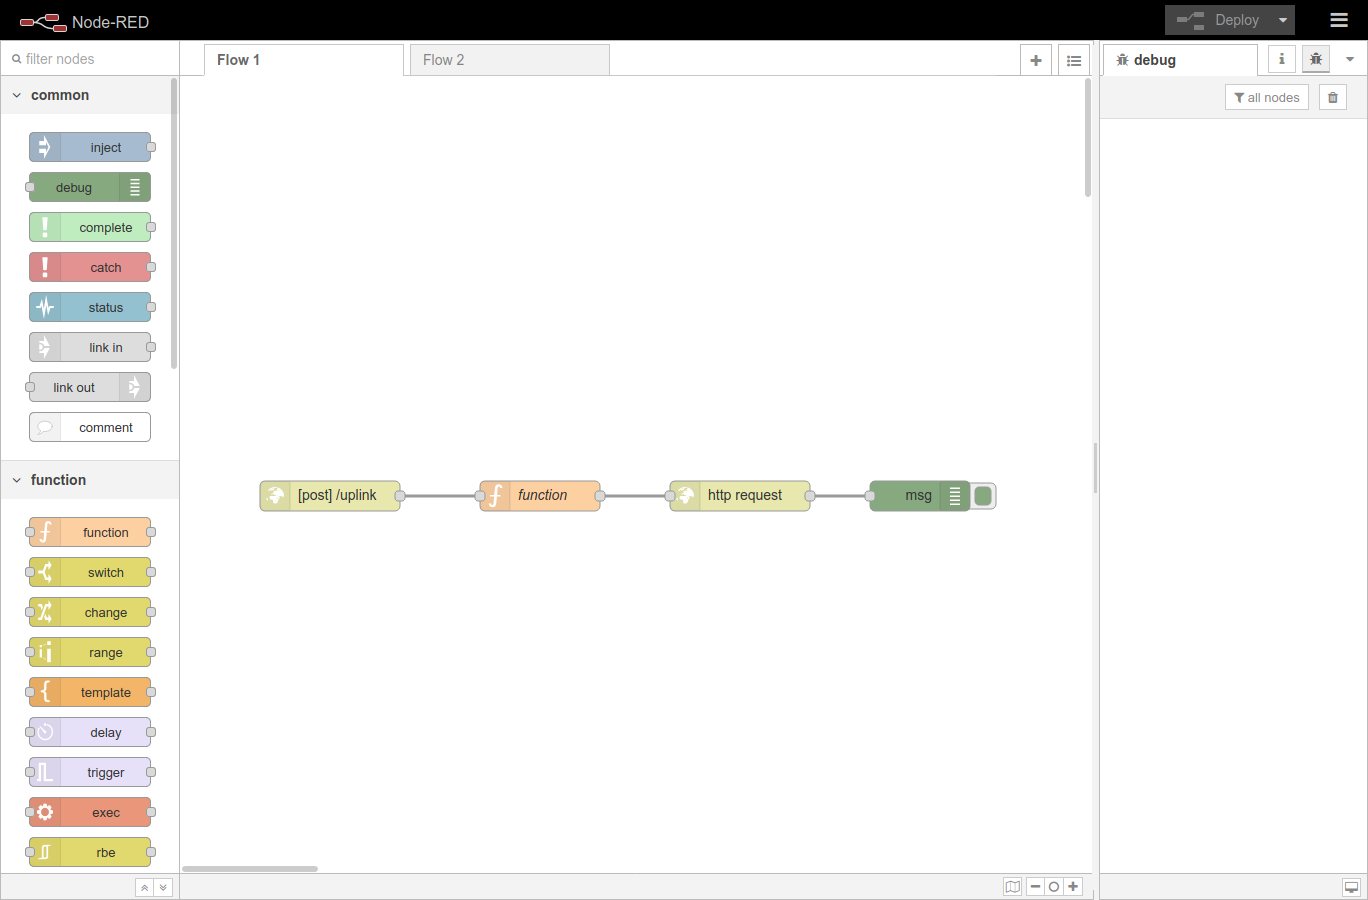
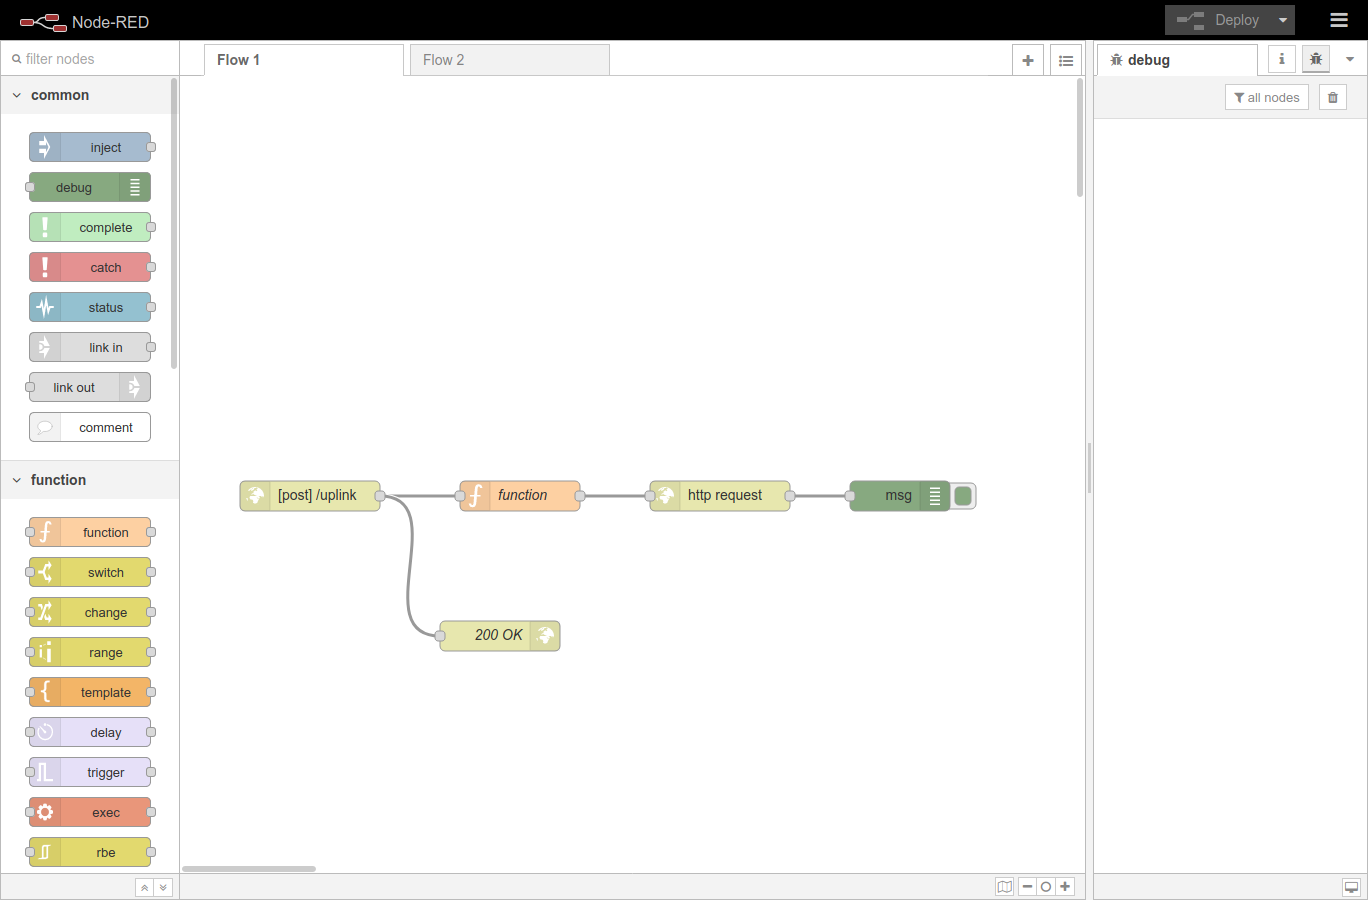
doc: Add the HTTP reponse node to the setup

diff --git a/doc/content/integrations/ifttt/node-red-setup/_index.md b/doc/content/integrations/ifttt/node-red-setup/_index.md
@@ -43,8 +43,14 @@ In its configuration, choose **set by msg.method** for a **Method** and select *
 
 {{< figure src="http-request-node.png" alt="Configuring HTTP request node" >}}
 
+To avoid timeouts of the HTTP requests originating from {{% tts %}}, the **http in** node needs to be connected to an **http response** node.
+
+Add the **http response** node to the dashboard and configure it to reply to these requests with `200 OK`.
+
+{{< figure src="http-response-node.png" alt="Configuring HTTP response node" >}}
+
 Finally, add the **debug** node to the dashboard, configure it to display a **complete msg object** as an **Output** and finish by selecting **Done**.
 
-Connect these nodes and click the **Deploy** button in the upper right corner. Use the debug window below this button to monitor the results.
+Connect these nodes as shown on the picture below and click the **Deploy** button in the upper right corner. Use the debug window below this button to monitor the results.
 
 {{< figure src="final-setup.png" alt="Node-RED setup" >}}
